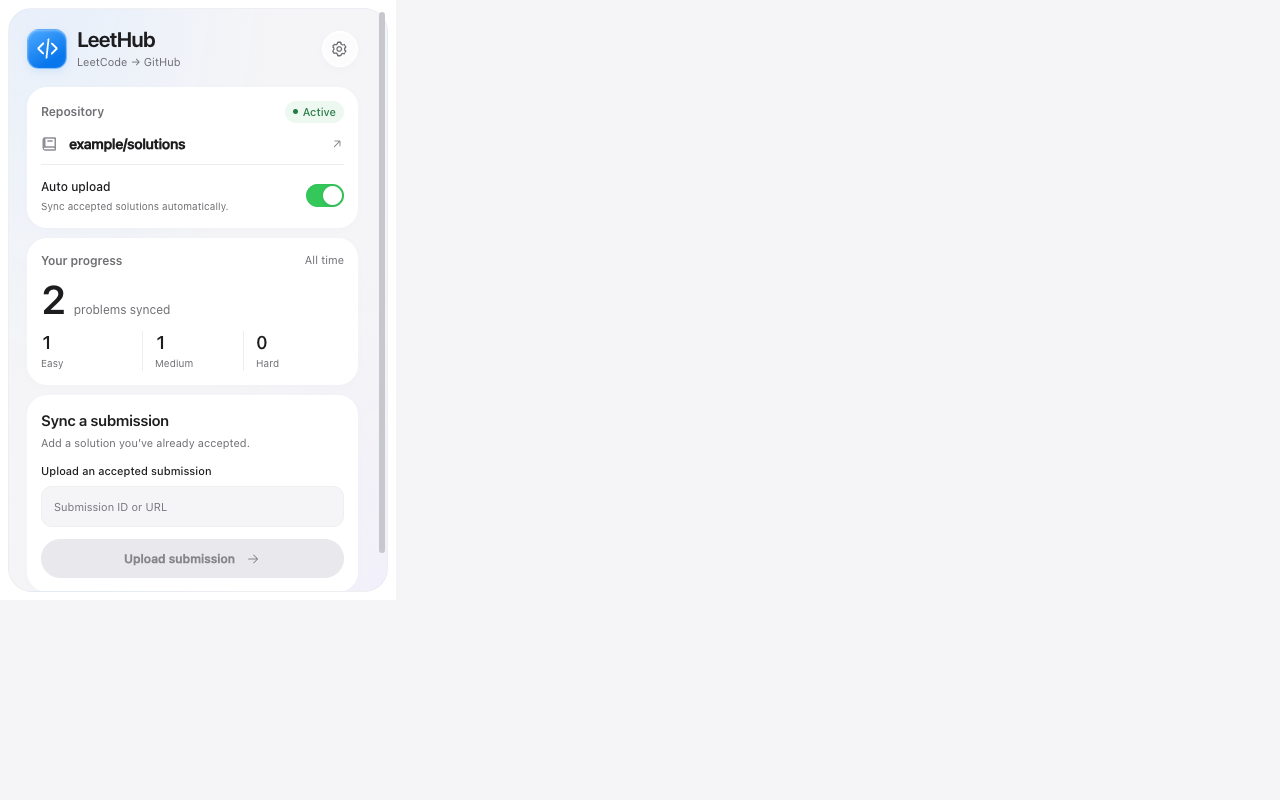
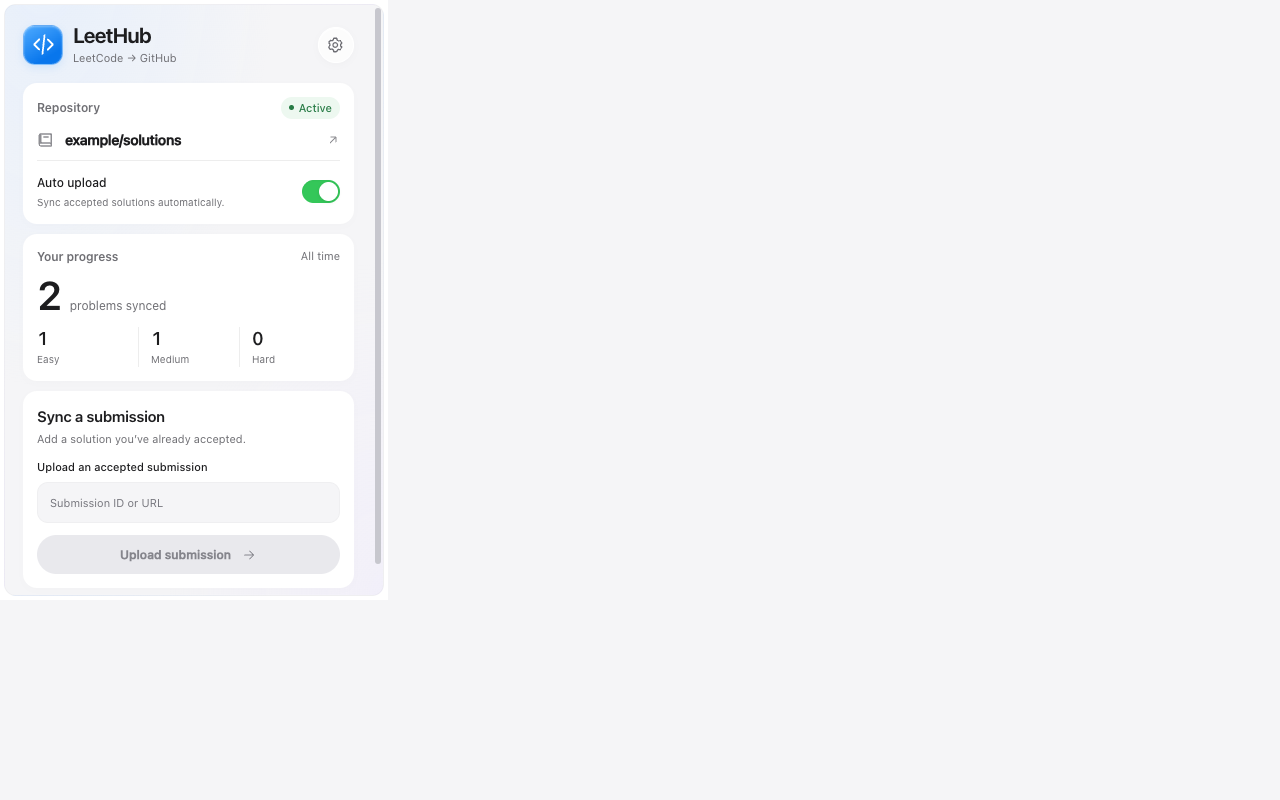
style: refine popup corners and prepare version 1.0.7

diff --git a/src/css/app.css b/src/css/app.css
@@ -12,16 +12,16 @@ button:focus-visible,a:focus-visible,input:focus-visible,select:focus-visible { 
 .eyebrow { font-size: 12px; font-weight: 600; color: var(--muted); letter-spacing: -.1px; }
 .small-muted { font-size: 11px; color: #6e6e73; }.muted { color: var(--muted); }
 .brand { display: flex; align-items: center; gap: 10px; }
-.brand-mark { width: 40px; height: 40px; border-radius: 12px; display: grid; place-items: center; color: #fff; background: linear-gradient(150deg,#4eaaff,#0876ec 75%); border: 1px solid #ffffff60; box-shadow: inset 0 1px 2px #ffffff50,0 3px 8px #007aff1c; }.brand-mark .icon { width: 25px; height: 25px; }
+.brand-mark { width: 40px; height: 40px; display: block; flex-shrink: 0; }
 .brand h1 { font-size: 21px; font-weight: 650; line-height: 1.15; letter-spacing: -.75px; }.brand-caption { display: block; font-size: 11px; margin-top: 3px; color: var(--muted); }
 .brand-row { display: flex; align-items: center; justify-content: space-between; margin-bottom: 16px; }
 .icon-button { width: 36px; height: 36px; display: grid; place-items: center; border-radius: 50%; color: #6e6e73; background: #ffffffa6; border: 1px solid #fff; box-shadow: 0 2px 8px #00000006,inset 0 1px 0 #fff; backdrop-filter: blur(16px); }.icon-button:hover { color: var(--ink); background: #fff; text-decoration: none; }.icon-button .icon { width: 18px; height: 18px; }
-.popup-window { width: 396px; padding: 8px; background: #fff; }
-.popup { width: 100%; padding: 18px 18px 12px; max-height: 584px; overflow-y: auto; border: 1px solid #00000006; border-radius: 24px; scrollbar-width: thin; scrollbar-color: #c7c7ce transparent; background: radial-gradient(ellipse at 10% -10%,#daeaff88,transparent 48%),radial-gradient(ellipse at 100% 100%,#ece5ff55,transparent 40%),#f5f5f7; }
+.popup-window { width: 388px; padding: 4px; background: #fff; }
+.popup { width: 100%; padding: 18px 18px 12px; max-height: 592px; overflow-y: auto; border: 1px solid #00000006; border-radius: 12px; scrollbar-width: thin; scrollbar-color: #c7c7ce transparent; background: radial-gradient(ellipse at 10% -10%,#daeaff88,transparent 48%),radial-gradient(ellipse at 100% 100%,#ece5ff55,transparent 40%),#f5f5f7; }
 .popup::-webkit-scrollbar { width: 6px; }
-.popup::-webkit-scrollbar-track { background: transparent; margin-block: 22px; }
+.popup::-webkit-scrollbar-track { background: transparent; margin-block: 12px; }
 .popup::-webkit-scrollbar-thumb { border-radius: 6px; background: #c7c7ce; }
-.repository-card,.progress-card,.manual-card { background: var(--surface); border-radius: 20px; padding: 14px; margin-bottom: 10px; box-shadow: 0 2px 8px #00000003; }
+.repository-card,.progress-card,.manual-card { background: var(--surface); border-radius: 14px; padding: 14px; margin-bottom: 10px; box-shadow: 0 2px 8px #00000003; }
 .section-top { display: flex; align-items: center; justify-content: space-between; gap: 8px; }
 .status-badge { display: inline-flex; gap: 5px; align-items: center; color: #6e6e73; font-size: 11px; font-weight: 500; padding: 3px 8px; background: #f5f5f7; border-radius: 20px; }.status-badge.active { color: #277b45; background: #edf8f0; }.status-dot { width: 5px; height: 5px; border-radius: 50%; background: currentColor; display: inline-block; }
 .repository-name { color: var(--ink); display: flex; align-items: center; gap: 10px; margin: 10px 0; font-size: 14px; font-weight: 550; letter-spacing: -.3px; }.repository-name > span { min-width: 0; overflow-wrap: anywhere; }.repository-name > .icon { color: #8e8e93; width: 18px; height: 18px; }.repository-name .repository-arrow { width: 14px; height: 14px; margin-left: auto; transform: rotate(-45deg); }

diff --git a/store/UI-UPDATE.md b/store/UI-UPDATE.md
@@ -10,6 +10,8 @@ See [live verification](../audit/LIVE-VERIFICATION.md) and [design references](D
 
 ## Rounded popup follow-up
 
-The popup has an 8px white inset around a 24px rounded panel and a thin scrollbar. The panel scrolls within 584px so the complete popup stays within Chrome's 600px height limit. Chrome controls the native window border. The setup page keeps its independent layout.
+The popup has a 4px white inset around a 12px rounded panel and a thin scrollbar. Content cards use 14px corners. The panel scrolls within 592px so the complete popup stays within Chrome's 600px height limit. Chrome controls the native window border. The setup page keeps its independent layout.
 
[2 lines of base64/hex data omitted]
+
+The corner radius was subsequently reduced to 12px, card corners to 14px, and the outer inset to 4px for a more restrained appearance.

diff --git a/store/PUBLISHING.md b/store/PUBLISHING.md
@@ -2,7 +2,7 @@
 
 ## Prepared package
 
-Build and package with `npm run package`. Upload `artifacts/leethub-1.0.6.zip` as a Chrome extension in the Chrome Web Store developer dashboard. All executable code is bundled locally; source maps and unrelated archived assets are excluded.
+Build and package with `npm run package`. Upload `artifacts/leethub-1.0.7.zip` as a Chrome extension in the Chrome Web Store developer dashboard. All executable code is bundled locally; source maps and unrelated archived assets are excluded.
 
 Store copy and permission explanations are in [LISTING.md](LISTING.md). The privacy policy is in [PRIVACY.md](../PRIVACY.md). Graphic assets are in `store/assets`.
 
